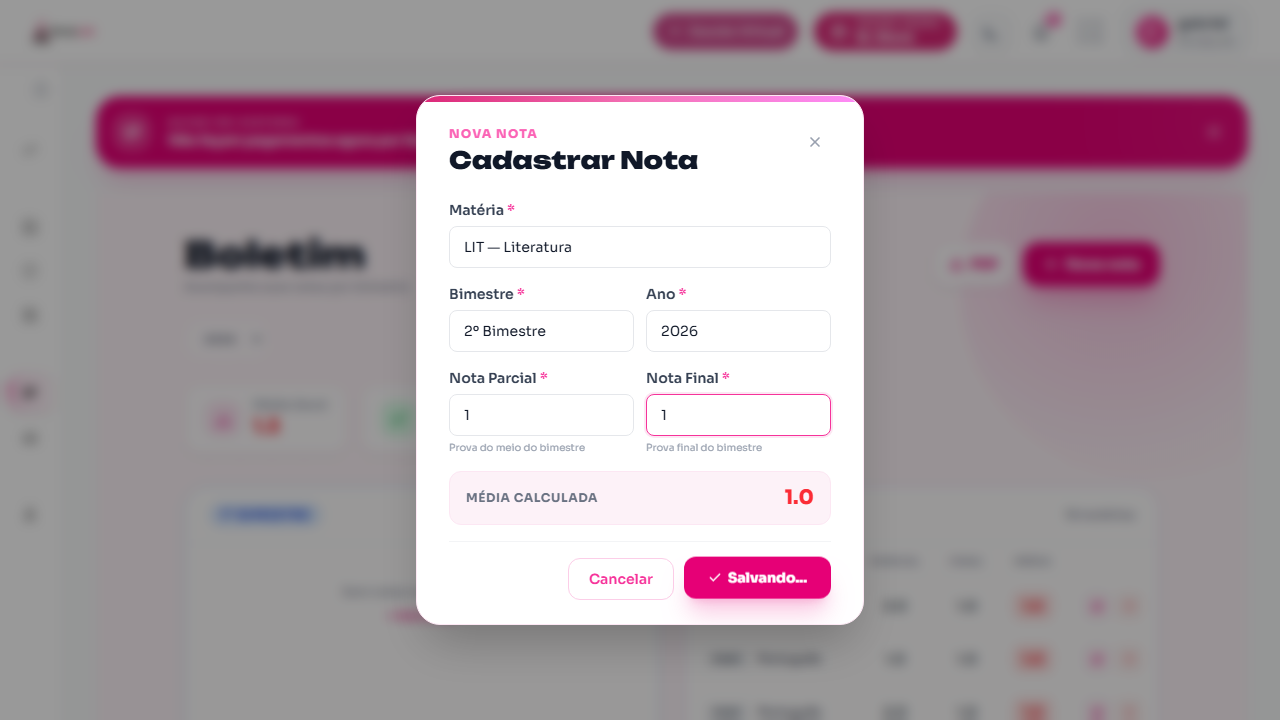
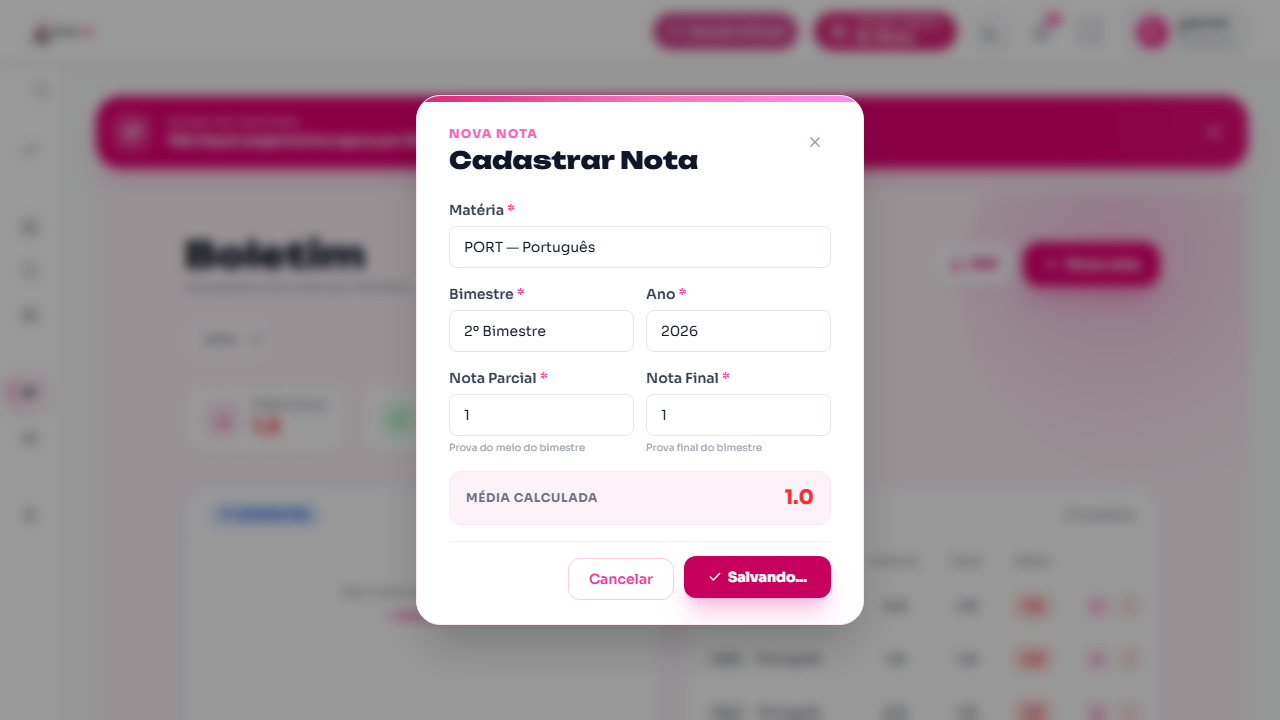
Acabou

Changed region(s): [[0.5312, 0.7639, 0.6562, 0.8556], [0.375, 0.3361, 0.4688, 0.3667]]

diff --git a/tests/Content/content.spec.ts b/tests/Content/content.spec.ts
@@ -1,0 +1,139 @@
+import { test, expect } from '@playwright/test';
+
+test.beforeEach(async ({ page }) => {
+  await page.goto('https://studylab.free.laravel.cloud/dashboard');
+  await page.waitForLoadState('networkidle');
+});
+
+
+test.describe('Casos felizes', () => {
+  test('deve cadastrar um conteúdo', async ({ page }) => {
+    await page.getByRole('link', { name: 'Matérias Matérias' }).click();
+
+    await page.getByRole('link', { name: 'Ver conteúdos' }).click();
+
+    await page.getByRole('button', { name: 'Adicionar conteúdo' }).click();
+
+    await page
+      .getByRole('textbox', {
+        name: 'Ex: Derivadas e integrais,'
+      })
+      .fill('orações subordinadas');
+
+    await page.locator('#modalContentSubject').selectOption('325');
+
+    await page.locator('#modalContentSemester').selectOption('1');
+
+    await page.getByRole('button', { name: 'Salvar conteúdo' }).click();
+
+    await expect(
+      page.getByText('Conteúdo cadastrado!')
+    ).toBeVisible();
+  });
+
+  test('deve editar um conteúdo', async ({ page }) => {
+    await page.getByRole('link', { name: 'Matérias Matérias' }).click();
+
+    await page.getByRole('link', { name: 'Ver conteúdos' }).click();
+
+    await page.getByRole('button', { name: 'Editar' }).first().click();
+
+    await page
+      .getByRole('textbox', {
+        name: 'Ex: Derivadas e integrais,'
+      })
+      .fill('orações subordinadas adjetivas');
+
+    await page
+      .getByRole('button', { name: 'Salvar alterações' })
+      .click();
+
+    await expect(
+      page.getByText('Conteúdo atualizado!')
+    ).toBeVisible();
+  });
+});
+
+test.describe('Casos tristes', () => {
+  test('não deve cadastrar conteúdo sem nome', async ({ page }) => {
+    await page.getByRole('link', { name: 'Matérias Matérias' }).click();
+
+    await page.getByRole('link', { name: 'Ver conteúdos' }).click();
+
+    await page.getByRole('button', { name: 'Adicionar conteúdo' }).click();
+
+    await page.locator('#modalContentSubject').selectOption('325');
+
+    await page.locator('#modalContentSemester').selectOption('1');
+
+    await page.getByRole('button', { name: 'Salvar conteúdo' }).click();
+
+    await expect(
+      page.getByText('Informe o nome do conteúdo.')
+    ).toBeVisible();
+  });
+
+  test('não deve cadastrar conteúdo sem semestre', async ({ page }) => {
+    await page.getByRole('link', { name: 'Matérias Matérias' }).click();
+
+    await page.getByRole('link', { name: 'Ver conteúdos' }).click();
+
+    await page.getByRole('button', { name: 'Adicionar conteúdo' }).click();
+
+    await page
+      .getByRole('textbox', {
+        name: 'Ex: Derivadas e integrais,'
+      })
+      .fill('pronome');
+
+    await page.locator('#modalContentSubject').selectOption('325');
+
+    await page.getByRole('button', { name: 'Salvar conteúdo' }).click();
+
+    await expect(
+      page.getByText('Selecione ou informe o semestre.')
+    ).toBeVisible();
+  });
+});
+
+test.describe('Casos de borda', () => {
+  test('deve cadastrar conteúdo com 1 caractere', async ({ page }) => {
+    await page.getByRole('link', { name: 'Matérias Matérias' }).click();
+
+    await page.getByRole('link', { name: 'Ver conteúdos' }).click();
+
+    await page.getByRole('button', { name: 'Adicionar conteúdo' }).click();
+
+    await page
+      .getByRole('textbox', {
+        name: 'Ex: Derivadas e integrais,'
+      })
+      .fill('A');
+
+    await page.locator('#modalContentSubject').selectOption('325');
+
+    await page.locator('#modalContentSemester').selectOption('1');
+
+    await page.getByRole('button', { name: 'Salvar conteúdo' }).click();
+  });
+
+  test('deve cadastrar conteúdo com 255 caracteres', async ({ page }) => {
+    await page.getByRole('link', { name: 'Matérias Matérias' }).click();
+
+    await page.getByRole('link', { name: 'Ver conteúdos' }).click();
+
+    await page.getByRole('button', { name: 'Adicionar conteúdo' }).click();
+
+    await page
+      .getByRole('textbox', {
+        name: 'Ex: Derivadas e integrais,'
+      })
+      .fill('a'.repeat(255));
+
+    await page.locator('#modalContentSubject').selectOption('325');
+
+    await page.locator('#modalContentSemester').selectOption('1');
+
+    await page.getByRole('button', { name: 'Salvar conteúdo' }).click();
+  });
+});
